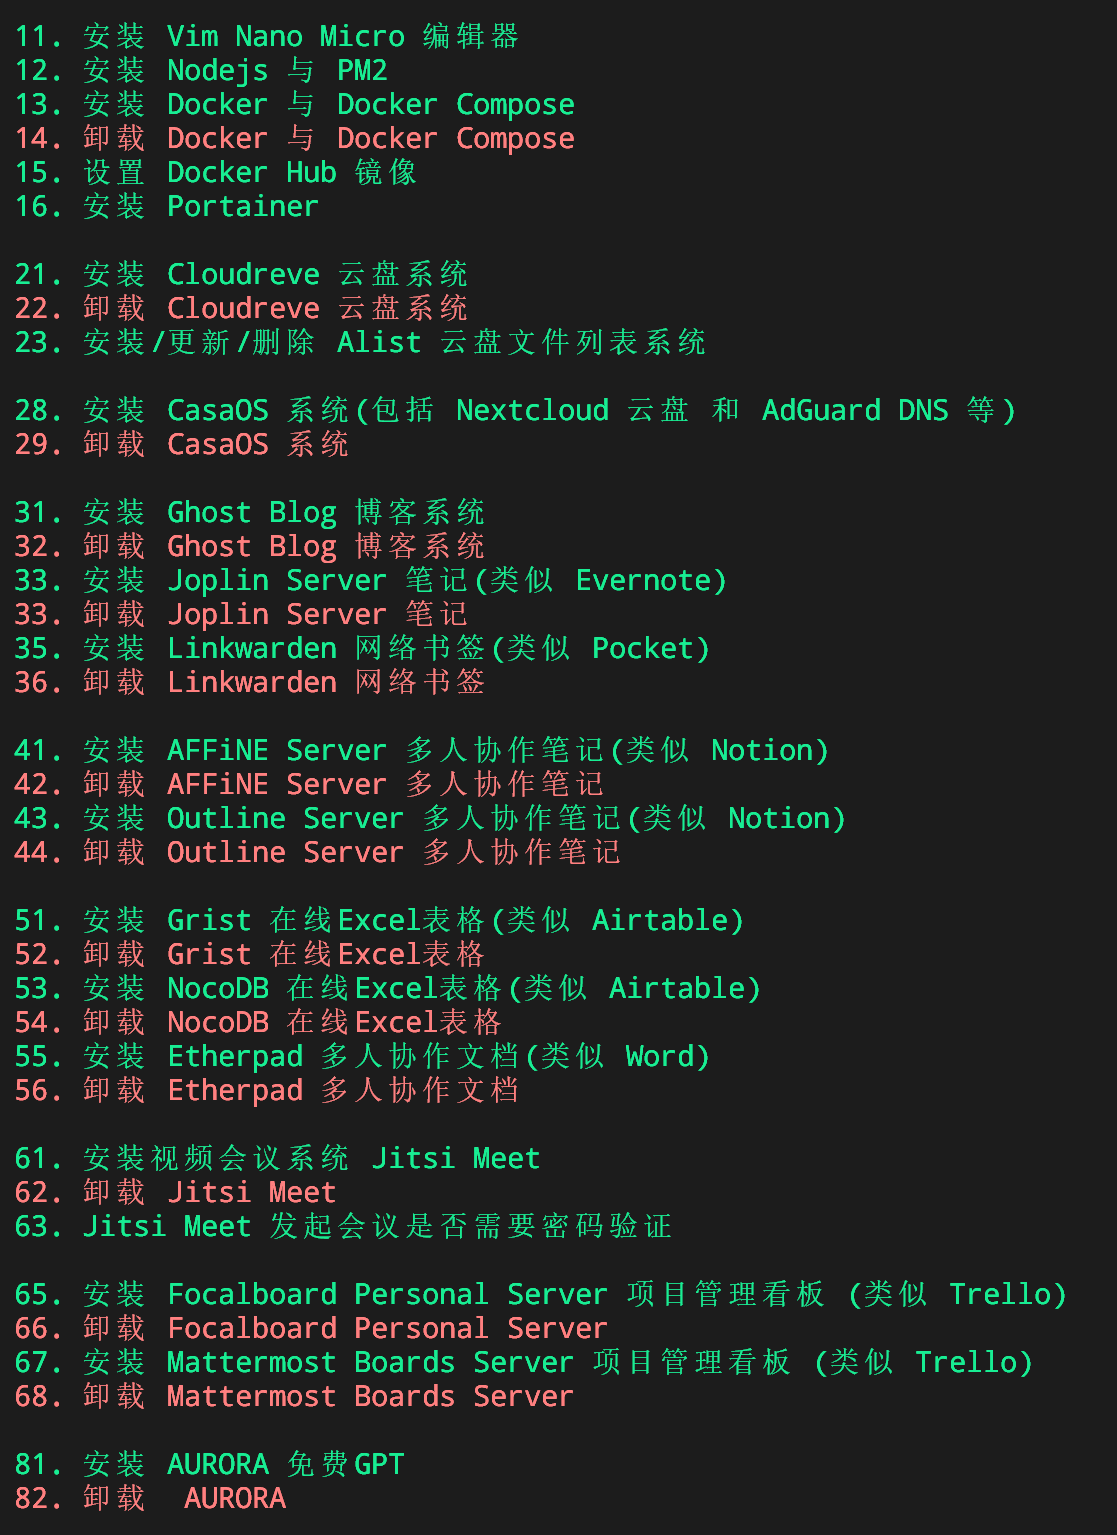
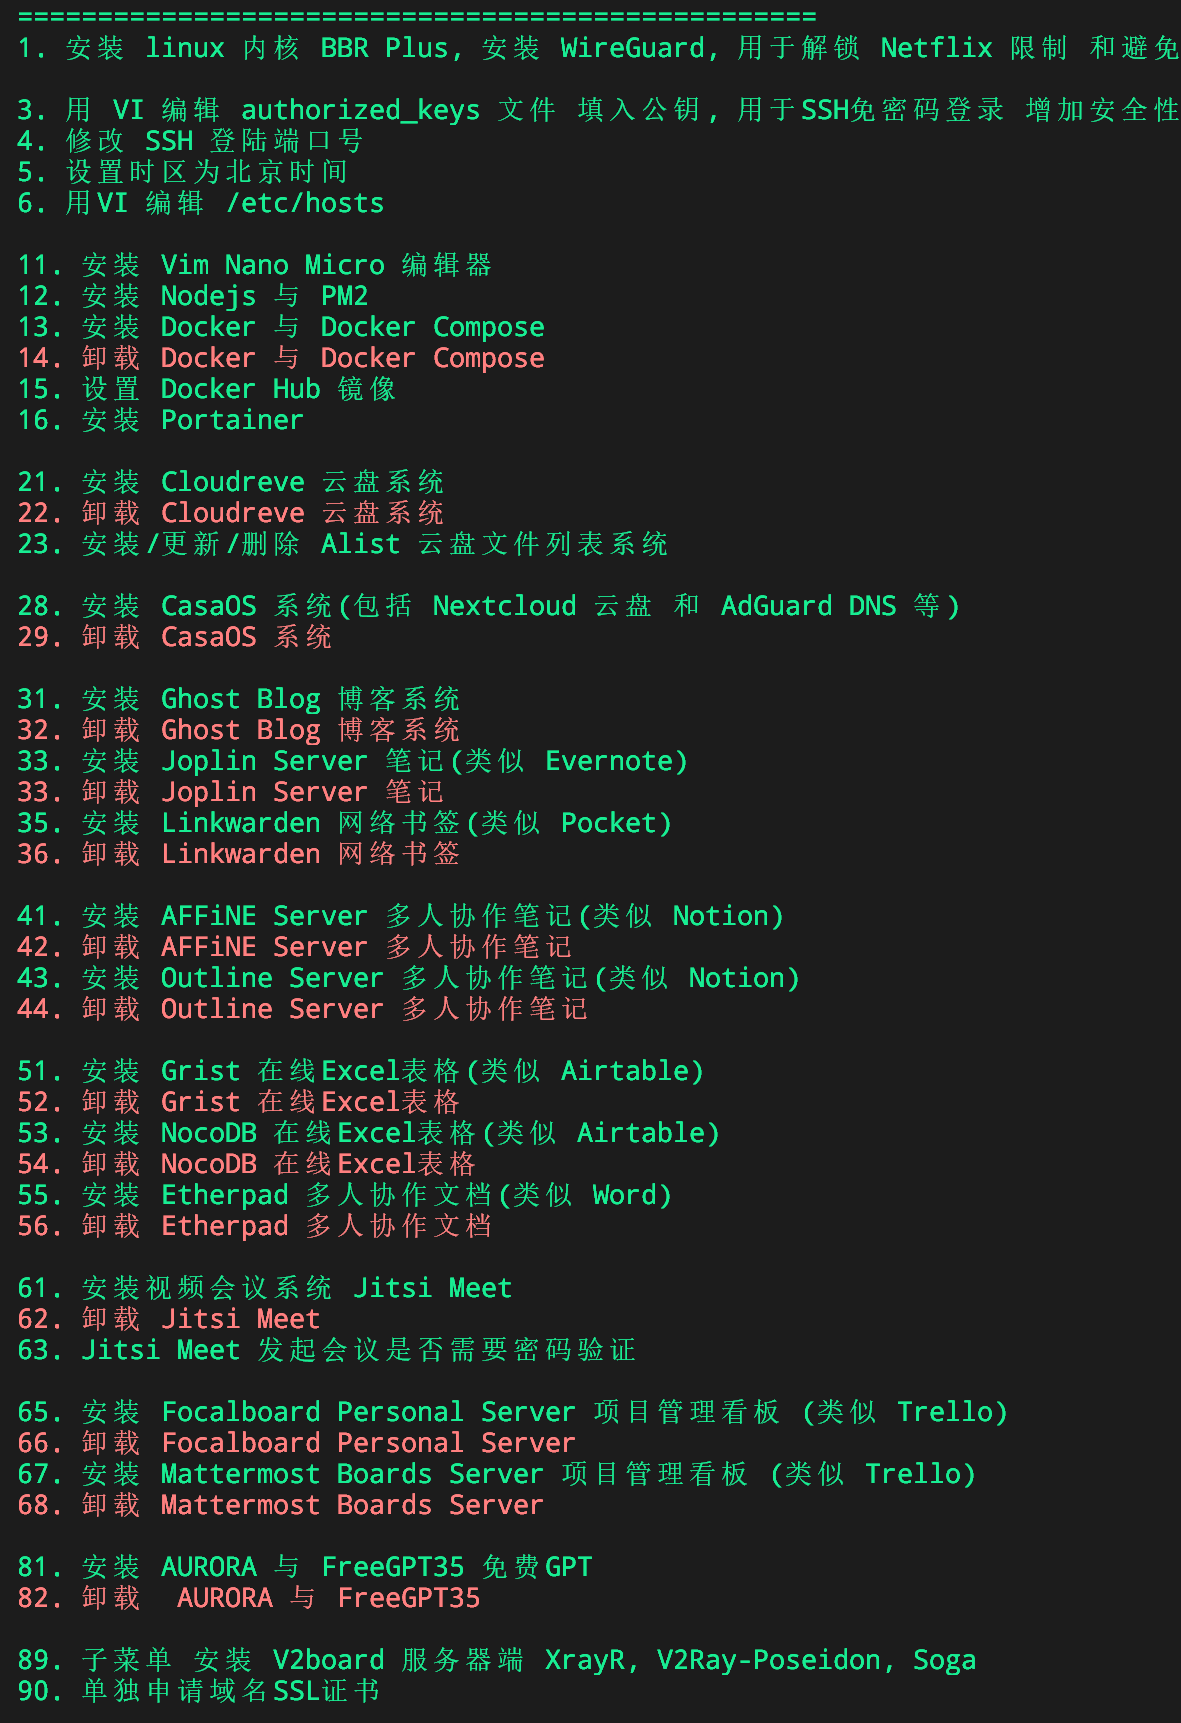
Docs

diff --git a/README.md b/README.md
@@ -1,8 +1,10 @@
 # Easy install latest or LTS linux kernel and enable BBR or BBR plus
 
 ### [中文文档](/KERNEL_CN.md)
-### [xray v2ray trojan 一键安装脚本](/README2.md)
-### [Easily install docker, Nodejs and more sofrware shell script ](TOOL.md)
+### [xray v2ray trojan shadowsocks install script](/README2.md)
+### [xray v2ray trojan shadowsocks 一键安装脚本 中文](/README2_CN.md)
+### [install script for docker, Nodejs, Joplin, Jitsi Meet, Focalboard, FreeGPT and more ](TOOL.md)
+### [Docker Nodejs Joplin笔记 视频会议 Alist网盘 免费GPT 一键安装脚本 中文 ](TOOL_CN.md)
 
 ## Sponsors
 Thanks for support this project. Check on [patreon](https://www.patreon.com/linuxkernel)
@@ -16,12 +18,12 @@ Thanks for support this project. Check on [patreon](https://www.patreon.com/linu
 * [Install wireguard and Cloudflare WARP. Unlock Netflix ip geo-restriction. Avoid Google reCAPTCHA human verification](#Wireguard)
 
 
-## Features 
-1. Easily switch Linux kernel for all versions, including latest kernel, 5.16, 5.10 LTS, 5.4 LTS, 4.19 LTS, 4.14 LTS  
-2. Easily enable BBR or BBR plus congestion control algorithm with FQ / FQ-Codel / FQ-PIE / CAKE. 
+## Features
+1. Easily switch Linux kernel for all versions, including latest kernel, 5.16, 5.10 LTS, 5.4 LTS, 4.19 LTS, 4.14 LTS
+2. Easily enable BBR or BBR plus congestion control algorithm with FQ / FQ-Codel / FQ-PIE / CAKE.
 3. Support Debian9+, Ubuntu 16+ and CentOS 7+ operation systems
 4. Install wireguard and Cloudflare WARP client to avoid Google reCAPTCHA and unlock Netflix ip geo-restriction
- 
+
 
 
 
@@ -51,16 +53,16 @@ wget --no-check-certificate https://raw.githubusercontent.com/jinwyp/one_click_s
 
 
 
-## Usage 
+## Usage
 
 ### kernel
 ### Install latest or LTS linux kernel and enable BBR or BBR Plus
 
 1. On CentOS / AlmaLinux / Rocky Linux, run script then choose 31 to install latest 5.16 kernel or choose 35 to install LTS 5.10 kernel (recommended). It will reboot twice duiring the whole installation.
 2. On Debian run script then choose 41 to install LTS 5.10 kernel, on Ubuntu please choose 45 to install LTS 5.10 kernel. It will reboot twice duiring the whole installation.
-3. After finished new kernel installation, rerun the script and choose 2 to enable BBR congestion control algorithm with Cake(recommended) or FQ. 
-4. To enable BBR Plus. run script then choose 61 to install BBR Plus 4.14.129 kernel , or choose 66 to install BBR Plus 5.10 LTS kernel. It will reboot twice duiring the whole installation.  After finished new kernel installation, rerun the script then choose 3 to enable BBR Plus. 
-5. Duiring the the whole installation when show the big warning screen(see below pics), please choose "NO" to continue installation. Do not abort kernel removal. 
+3. After finished new kernel installation, rerun the script and choose 2 to enable BBR congestion control algorithm with Cake(recommended) or FQ.
+4. To enable BBR Plus. run script then choose 61 to install BBR Plus 4.14.129 kernel , or choose 66 to install BBR Plus 5.10 LTS kernel. It will reboot twice duiring the whole installation.  After finished new kernel installation, rerun the script then choose 3 to enable BBR Plus.
+5. Duiring the the whole installation when show the big warning screen(see below pics), please choose "NO" to continue installation. Do not abort kernel removal.
 
 ![注意 安装BBR plus](https://github.com/jinwyp/one_click_script/blob/master/docs/debian.jpg?raw=true)
 ![注意 安装BBR plus](https://github.com/jinwyp/one_click_script/blob/master/docs/kernel.png?raw=true)
@@ -74,7 +76,7 @@ wget --no-check-certificate https://raw.githubusercontent.com/jinwyp/one_click_s
 
 1. Unlock with Cloudflare WARP sock5 proxy. Run script then choose 11 to install Cloudflare WARP linux client sock5 proxy, After finish installation, rerun script then choose 21 to test whether Netflix is unlock or not through the WARP sock5 proxy.
 2. Unlock with Cloudflare WARP IPv6. Run script then choose 12 to install Wireguard and Cloudflare WARP.  After finish installation, The VPS will enable IPv6. As default the VPS is to use IPv4 to access the network. Rerun script then choose 21 to test whether Netflix is unlock or not through the IPv6.
-3. To unlock Netflix and other stream website. Using the [script](/README.md) in the same repo to install v2ray. During the v2ray installation follow the instruction and select different v2ray routing rules (IPv6 or WARP sock5 or DNS or other unlocked v2ray server) to unlock netflix. 
+3. To unlock Netflix and other stream website. Using the [script](/README.md) in the same repo to install v2ray. During the v2ray installation follow the instruction and select different v2ray routing rules (IPv6 or WARP sock5 or DNS or other unlocked v2ray server) to unlock netflix.
 4. To avoid Google reCAPTCHA human verification. Using the [script](/README.md) in the same repo to install v2ray. During the v2ray installation follow the instruction and select different v2ray routing rules (IPv6 or WARP sock5 or other unlocked v2ray server) to avoid Google reCAPTCHA. Recommended to use IPv6 to avoid Google reCAPTCHA.
 
 
@@ -98,7 +100,7 @@ curl -O https://raw.githubusercontent.com/jinwyp/one_click_script/master/netflix
 
 
 
-## FAQ 
+## FAQ
 
 1. Netflix non-self produced drama test script can't test through v2ray routing rule. The VPS is already unlocked but the result of the test could not show the right unlocked answer. You can use the test script on the V2ray client computer which connected the unlocked netflix V2ray server to get the right unlocked result.  The Netflix non-self produced drama test shell script can be running on Mac and linux. On Windows you can use Ubuntu (windows linux sub-system) to run the test script.
 

diff --git a/TOOL_CN.md b/TOOL_CN.md
@@ -1,4 +1,4 @@
-# Linux toolkit Easily install docker and Nodejs shell script 
+# Linux toolkit Easily install docker and Nodejs shell script
 
 ## 安装 Linux 软件 和 服务器端  一键脚本
 
@@ -10,21 +10,21 @@
 
 1. 开启SSH 无密码登录.修改SSH默认端口, 增加VPS安全性.
 2. 安装 Oh-my-zsh, zsh-autosuggestions, Micro 编辑器.
-3. 安装 Nodejs 和 PM2.   
-4. 安装 Docker 和 Docker Compose.   
-5. 安装 Portainer.   
+3. 安装 Nodejs 和 PM2.
+4. 安装 Docker 和 Docker Compose.
+5. 安装 Portainer.
 
 
 ## Installation
 
-#### via curl 安装命令 
+#### via curl 安装命令
 
 ```bash
 curl -O https://raw.githubusercontent.com/jinwyp/one_click_script/master/linux_install_software.sh && chmod +x ./linux_install_software.sh && ./linux_install_software.sh
 
 ```
 
-#### via wget 安装命令 
+#### via wget 安装命令
 
 ```bash
 wget --no-check-certificate https://raw.githubusercontent.com/jinwyp/one_click_script/master/linux_install_software.sh && chmod +x ./linux_install_software.sh && ./linux_install_software.sh

diff --git a/TOOL.md b/TOOL.md
@@ -1,15 +1,15 @@
-# Linux toolkit Easily install docker and Nodejs shell script 
+# Linux toolkit Easily install docker and Nodejs shell script
 
 
 ## [中文文档](/TOOL_CN.md)
 
-## Features 
+## Features
 
 1. Configuring an SSH login without password. Change the SSH Default Port. Secure your VPS.
 2. Install linux sofrware including Oh-my-zsh, zsh-autosuggestions, Micro editors.
-3. Install Nodejs and PM2.   
-4. Install Docker and Docker Compose.   
-5. Install Portainer.   
+3. Install Nodejs and PM2.
+4. Install Docker and Docker Compose.
+5. Install Portainer.
 
 
 
